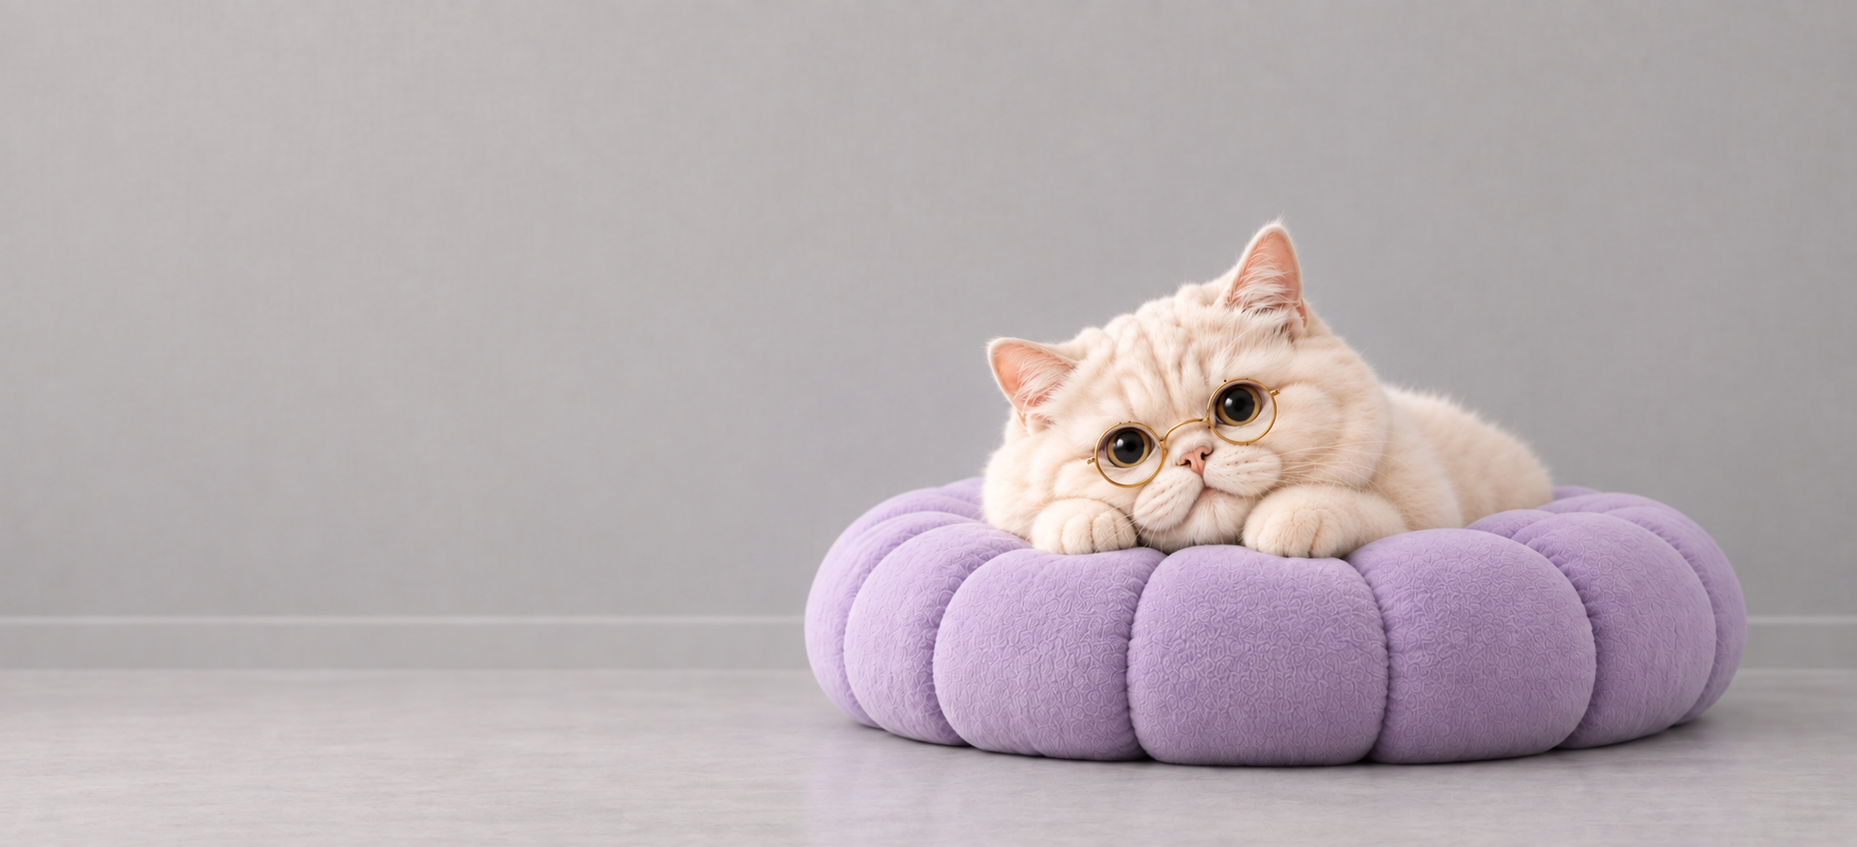
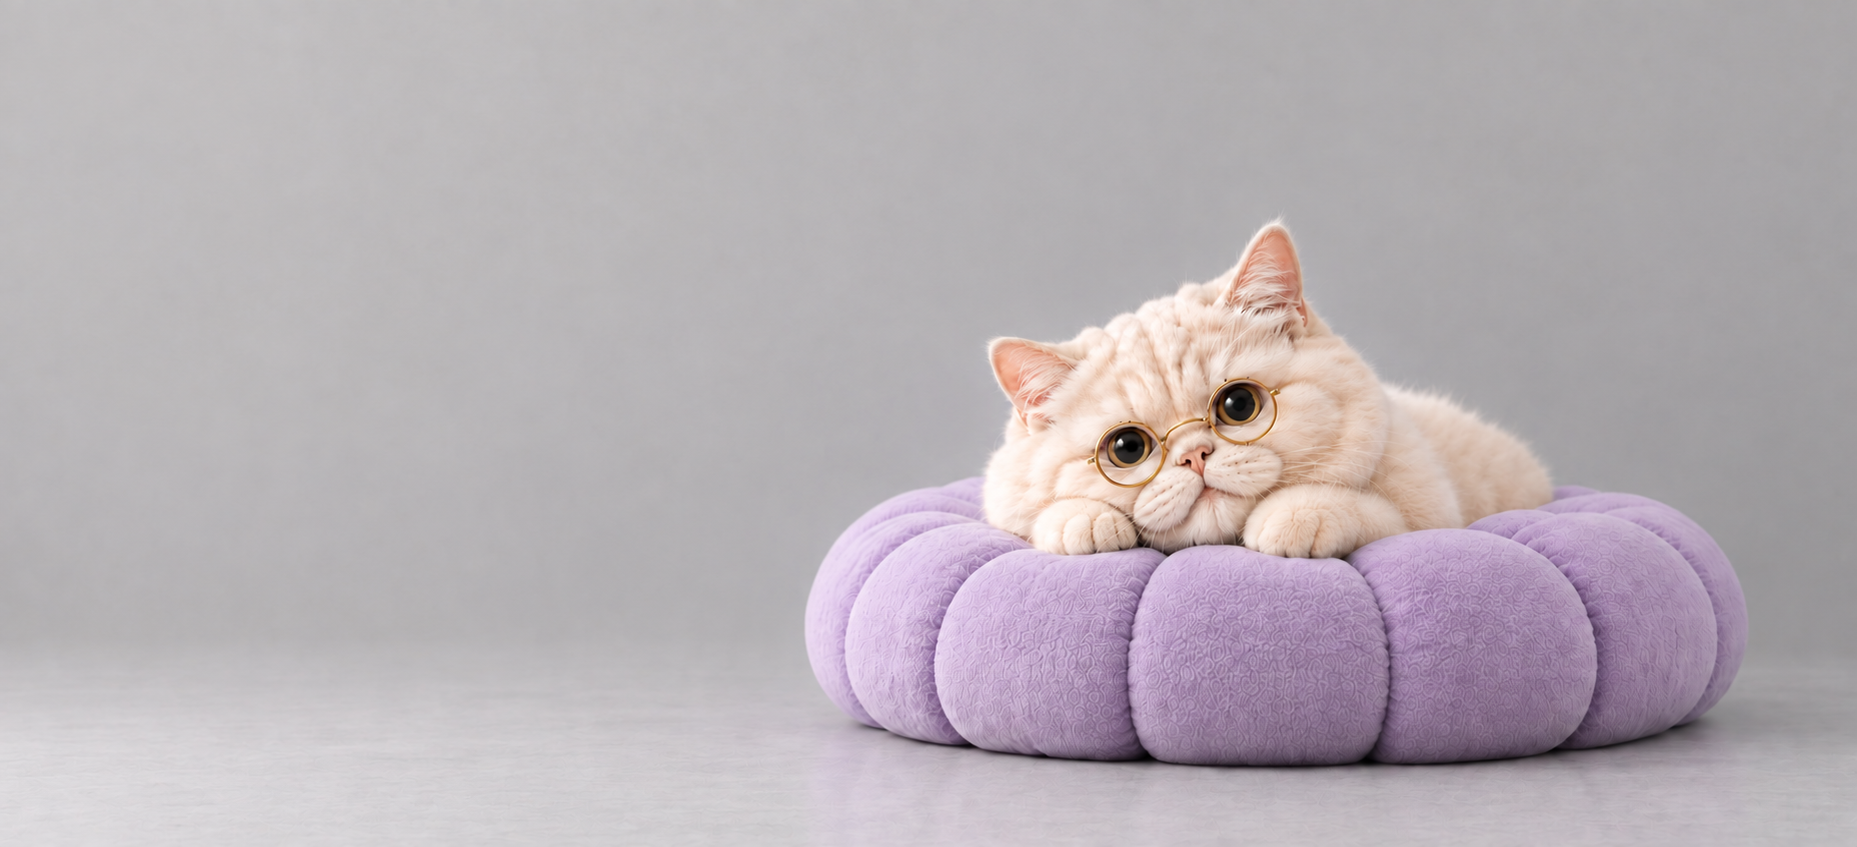
Let the chips look like something the user would say
The choice buttons and the quick-reply rail are all the user's own
words, waiting to be spoken. In the machine face they read as survey
options, so give them handwriting — that alone says who is talking,
which position cannot say for chips that float at the bottom of the
screen.

The rail also rotated through four colors by slot. The colors meant
nothing, and since the labels change daily the same phrase came back
in a different color each time. Settle on one soft lavender, not grey:
grey reads as a button that is switched off, and these are for
pressing. The choice buttons keep their colors — stacked vertically,
the color is what separates one option from the next.

Rename 빠른 실행 to 간편 실행, in the coach's instructions too, or it
points at a button that no longer has that name.

And put the cat room's header name in dark ink. Every friends room
used white, but that room is a sunlit living room and the name sank
into it. The others are dark enough to keep white.

diff --git a/lib/screens/chat_screen.dart b/lib/screens/chat_screen.dart
@@ -16288,12 +16288,14 @@ ${Prompts.outputRulesTail}${Prompts.screenMap}$plannerActionSection$coachOfferTa
               const SizedBox(width: 6),
               Flexible(
                 child: Text(
-                  '빠른 실행',
+                  '간편 실행',
                   overflow: TextOverflow.ellipsis,
                   maxLines: 1,
-                  style: GoogleFonts.notoSansKr(
-                    fontSize: 13,
-                    fontWeight: FontWeight.w900,
+                  // 개구는 획이 가늘어서 보라 바탕에 흰 글씨로 앉히면 묽어진다.
+                  // 정자체 13에 맞추려면 두 단계는 올려야 눈에 같은 굵기로 보인다.
+                  style: GoogleFonts.gaegu(
+                    fontSize: 15,
+                    fontWeight: FontWeight.w700,
                     color: Colors.white,
                   ),
                 ),
@@ -17758,9 +17760,12 @@ ${Prompts.outputRulesTail}${Prompts.screenMap}$plannerActionSection$coachOfferTa
                 // 아이콘이 붙은 줄만 왼쪽에서 시작한다. 가운데로 두면 아이콘과
                 // 글씨 사이가 버튼마다 달라져 줄이 안 맞는다.
                 textAlign: icon == null ? TextAlign.center : TextAlign.left,
-                style: GoogleFonts.notoSansKr(
-                  fontSize: 13,
-                  fontWeight: FontWeight.w800,
+                // 골라서 말하는 자리라 손글씨로 둔다. 아래 빠른 답장 칩과 같은
+                // 부류다 — 둘 다 아직 안 한 말이고, 누르면 내 말이 된다.
+                // 이미 한 말(내 말풍선)까지 손글씨로 가면 긴 문장이 읽기 힘들다.
+                style: GoogleFonts.gaegu(
+                  fontSize: 15,
+                  fontWeight: FontWeight.w700,
                   color: ink,
                 ),
               ),
@@ -19556,20 +19561,27 @@ ${Prompts.outputRulesTail}${Prompts.screenMap}$plannerActionSection$coachOfferTa
     return const BoxDecoration(color: Colors.transparent);
   }
 
-  /// [slot]은 칩이 놓인 자리. 이름이 아니라 자리로 색을 고르는 것은, 칩 이름에
-  /// 그날 일정이 그대로 들어오기도 해서 이름으로는 짝을 맞출 수가 없어서다.
+  /// 칩은 자리마다 색을 돌려 쓰다가 한 가지 연보라로 모았다.
+  ///
+  /// 색이 네 가지였는데 뜻하는 바가 없었다. 뜻 없는 색이 있으면 사용자는
+  /// 뜻을 찾느라 한 번 멈추고, 아무 뜻도 없다는 걸 알고 나면 그다음부터는
+  /// 색을 안 본다. 그러면 정작 색을 써야 할 자리에서 안 먹힌다.
+  ///
+  /// 회색이 아니라 연보라인 것은, 회색 바탕이 꺼진 버튼처럼 보이기 때문이다.
+  /// 이건 눌러서 말하는 자리다.
+  ///
+  /// [slot]은 아직 받는다. 칩을 다시 색으로 나눌 일이 생기면 여기서 쓴다.
   Widget _buildMasterQuickChip(String chip, int slot) {
-    final tone = AppDesignTokens.chatAccentSlot(slot);
-    final chipInk = AppDesignTokens.chatAccentInks[tone];
+    const chipInk = AppDesignTokens.brandPressed;
     return AppChip(
       label: chip,
       icon: _chipIcon(chip, color: chipInk),
-      backgroundColor: AppDesignTokens.chatAccentSurfaces[tone],
+      backgroundColor: AppDesignTokens.brandSoft,
       foregroundColor: chipInk,
-      borderColor: AppDesignTokens.chatAccentBorders[tone],
+      borderColor: AppDesignTokens.brandBorder,
       boxShadow: [
         BoxShadow(
-          color: chipInk.withValues(alpha: 0.14),
+          color: chipInk.withValues(alpha: 0.10),
           blurRadius: 14,
           offset: const Offset(0, 4),
         ),

diff --git a/lib/widgets/app_chip.dart b/lib/widgets/app_chip.dart
@@ -83,9 +83,15 @@ class AppChip extends StatelessWidget {
                 label,
                 maxLines: 1,
                 overflow: TextOverflow.ellipsis,
-                style: GoogleFonts.notoSansKr(
-                  fontSize: fontSize ?? AppDesignTokens.textMeta,
-                  fontWeight: FontWeight.w600,
+                // 칩에 적히는 건 전부 사용자가 할 말이다. 코치 말풍선이 정자체라
+                // 여기가 손글씨면 누가 말하는지가 글씨체로 갈린다. 정자체로 두면
+                // 내 대답이 아니라 설문 보기처럼 읽힌다.
+                //
+                // 개구는 글자가 작게 앉아서 같은 숫자를 주면 옆의 정자체보다
+                // 작아 보인다. 그래서 2를 더한다.
+                style: GoogleFonts.gaegu(
+                  fontSize: (fontSize ?? AppDesignTokens.textMeta) + 2,
+                  fontWeight: FontWeight.w700,
                   color: enabled
                       ? effectiveForeground
                       : AppDesignTokens.textDisabled,

diff --git a/lib/screens/main_tab_screen.dart b/lib/screens/main_tab_screen.dart
@@ -2108,9 +2108,20 @@ class _MainTabScreenState extends State<MainTabScreen>
   }
 
   Widget _buildAppBarTitle({required bool isImmersive}) {
+    // 배경 그림 위에 얹히는 글씨라 그림 밝기를 따라간다.
+    //
+    // 프렌즈 방을 전부 흰색으로 두고 있었는데, 냥냥이 방만 햇살 드는 밝은
+    // 거실이라 이름이 배경에 묻혔다. 나머지는 밤 헬스장이나 어두운 실내라
+    // 흰색이 맞다. 재보니 냥냥이만 확연히 밝고(189) 나머지는 절반 아래다
+    // (형 42, 남친 94, 할매 110).
+    //
+    // 배경 그림을 바꾸면 이 짝도 다시 봐야 한다.
+    final isBrightRoom = widget.coachId == 'cat';
     final nameColor = (_chatBgStyle == 'simple'
         ? const Color(0xFF3A3652)
-        : (isImmersive ? Colors.white : const Color(0xFF1A1A2E)));
+        : (isImmersive && !isBrightRoom
+              ? Colors.white
+              : const Color(0xFF1A1A2E)));
 
     return Row(
       children: [

diff --git a/lib/services/resistance_intervention_service.dart b/lib/services/resistance_intervention_service.dart
@@ -143,7 +143,7 @@ class ResistanceInterventionService {
       rule: '''[시작 신호 만들기]
 - 할 일을 더 낮추지 말고, 시작 자체에 신호를 만드는 쪽으로 가세요.
 - 정해진 신호가 행동을 시작하는 데 도움이 될 수 있다는 연구가 있다고 한 문장만 짚으세요. 효과를 길게 설명하거나 설득하지 마세요.
-- 채팅창 위 빠른 실행의 '숫자 세고 시작'을 눌러도 된다고 알려주고, 대신 띄워줄지 한 번만 물으세요.
+- 채팅창 위 간편 실행의 '숫자 세고 시작'을 눌러도 된다고 알려주고, 대신 띄워줄지 한 번만 물으세요.
 - 사용자가 띄워달라고 하면 그때 답변 끝에 [COUNTDOWN_START]를 붙이세요. 묻기도 전에 먼저 붙이지 마세요.''',
     ),
     // 시작 신호를 만드는 두 번째 방식이다. 위의 '시작 신호 만들기'는 앱 화면을

diff --git a/lib/theme/app_design_tokens.dart b/lib/theme/app_design_tokens.dart
@@ -23,7 +23,7 @@ abstract final class AppDesignTokens {
   /// 앱 곳곳에서 이미 쓰던 값을 이름만 붙여 끌어올렸다.
   static const Color brandVivid = Color(0xFF6C5CE7);
 
-  /// 채워서 눌러야 하는 버튼(빠른 실행, 전송)의 바탕.
+  /// 채워서 눌러야 하는 버튼(간편 실행, 전송)의 바탕.
   static const Gradient brandVividGradient = LinearGradient(
     begin: Alignment.topLeft,
     end: Alignment.bottomRight,
